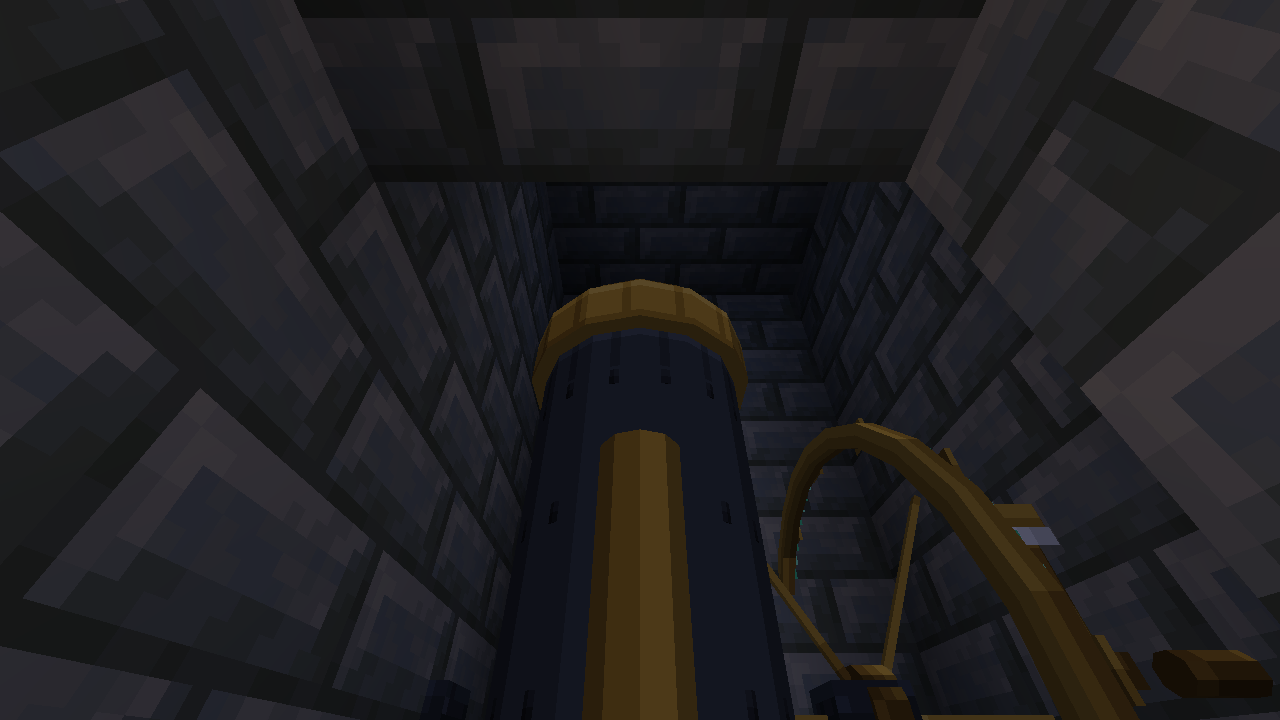
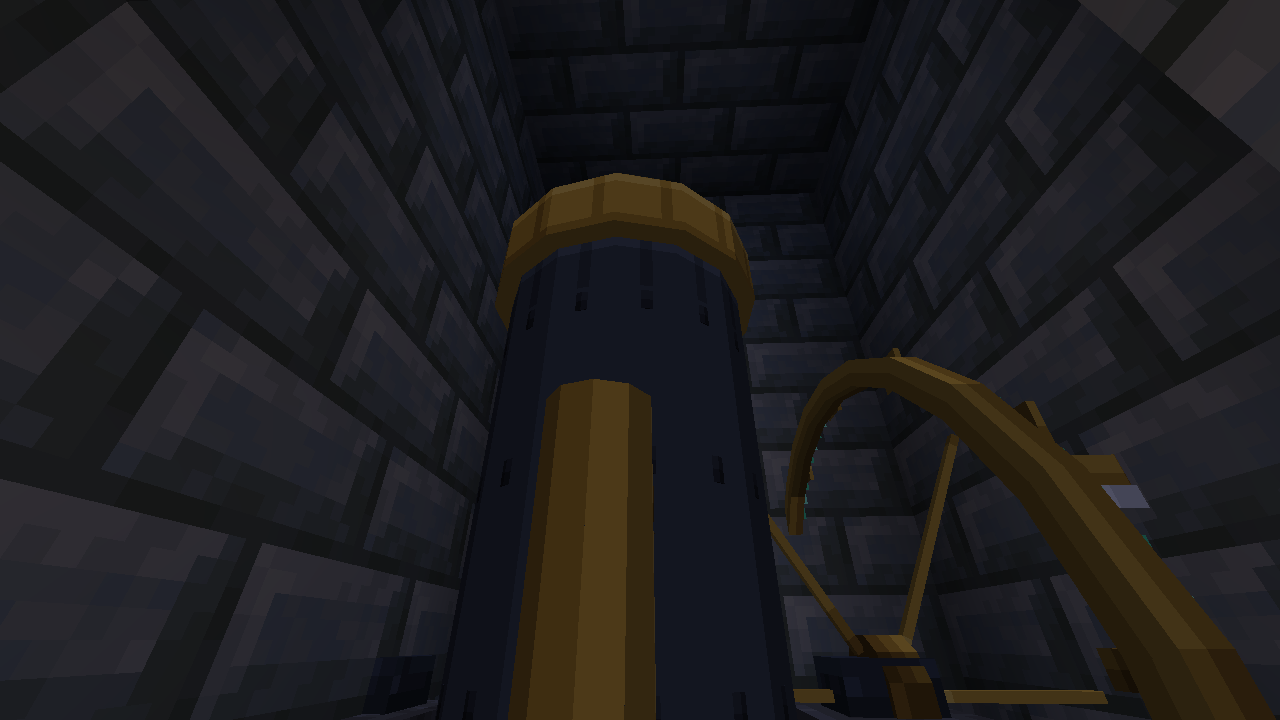
c164-snow: machines/meridian-astrograph: cr3's three points answered -- the slit camera moved, both left as a record-only view, and the card now says plainly that the instruments stay unlit on purpose

diff --git a/c164-realms/plan/packages/machines/meridian-astrograph.md b/c164-realms/plan/packages/machines/meridian-astrograph.md
@@ -7,7 +7,7 @@
 - 坐标：子午环在 `S.MERIDIAN_HUT` centre=(35,-30)（顶南北缝）；天体照相仪在 `S.SMALL_DOME_*`（南端亭上、顶点 `S.SMALL_DOME_APEX`=25）。
 - 色板：筒 `iron`+`brass`；大刻度环 `brass`；石墩包 `iron`；照相机背 `dark_wood`+`brass`。
 - 16 像素一格，`px=scale`：子午环筒 ⌀0.8×4→scale2、照相仪筒 ⌀1.2×6→scale2、刻度环 scale1。
-- 发光：无（夜观暗）；读数显微镜旁小灯可选（三级，返回 light）。
+- 发光：**无，而且这是有意的**（夜观暗：观测仪器夜里不该亮，破坏暗适应）。读数显微镜旁小灯可选（三级，返回 light），**默认不开**。
 - 实体预算：本件 ≈25；`build()` 返回实体数。
 
 **件清单**：`mach_meridian_tube` 子午环望远镜 ⌀0.8×4（**只在南北子午面俯仰、东西向水平轴，拆件交 A8**）；`mach_meridian_circle` 子午大刻度环 ⌀3（竖直，读天顶距）+读数显微镜；`mach_meridian_pier` 东西两石墩包（夹轴，配小屋南北缝）；`mach_astro_tube` 天体照相仪筒 ⌀1.2×6（比大折射镜短粗，`riveted_tube`，**跟踪交 A8**）；`mach_astro_back` 照相机背/底片盒；`mach_astro_mount` 赤道仪小架。
@@ -48,3 +48,13 @@
 3. `both` 那张：两间相距 60 格，画面里两件都很小，只能当“我做了这两件”的记录，不能当验收图。
 
 **待真机**：子午环在真机上能不能看出“只南北摆”（要靠 A8 动起来才看得出）；刻度环的 72 道刻在 20 格外还分不分得清。
+
+**cr3 评审（c35e36f，过）后的整改**
+1. **`slit` 机位**（cr3 最弱第 1 条）：原来机位在 `FEET+1.35`、aim 抬到 `+5.4`，缝是一条暗带、仪器几个像素。改成机位升到筒的高度 `+1.75`、aim 沿筒看向缝 `+4.6`——图上是**筒在画面前景、大刻度环在右后方、缝在上方**，“筒穿过缝”看得出来了。只重出 slit 一张。
+2. **`both` 两台没有主次**（第 2 条）：**不改**，按 cr3 说的，看板用 `astro` 和 `meridian_tube` 分开判，`both` 只用来核两台在同一场景里对不对得上。
+3. **夜里两台没有一处暖光**（第 3 条）：**这一条我要总监拍板，所以先不动**。cr3 自己给了两种可能：
+   - 观测仪器夜里本来就不该亮（破坏暗适应）——如果是这个意思，**请写在卡上**；
+   - 如果只是“没做”，建议给读数显微镜一个 phosphor 小刻度加一盏 4 级罩灯。
+   我的默认：**保持不亮**。理由：这是两台**测量仪器**，不是灯具；同一间屋里穹顶机构有小红灯、钟有钟面、行星仪有日球，那三件都是“被人看着用的展示件”，这两件是“对着天读数的”。而且卡上写了“发光：无（夜观暗）”——**卡本身就是这个意思**，cr3 只是不确定是不是漏做了。已把卡上那行加一句说明。
+
+**验收状态（整改后）**：`check.py` PASS 0 失败 1 黄；6 张里 1 张重出；`--verify` 6/6；`delivery.py` 七项全 PASS。
